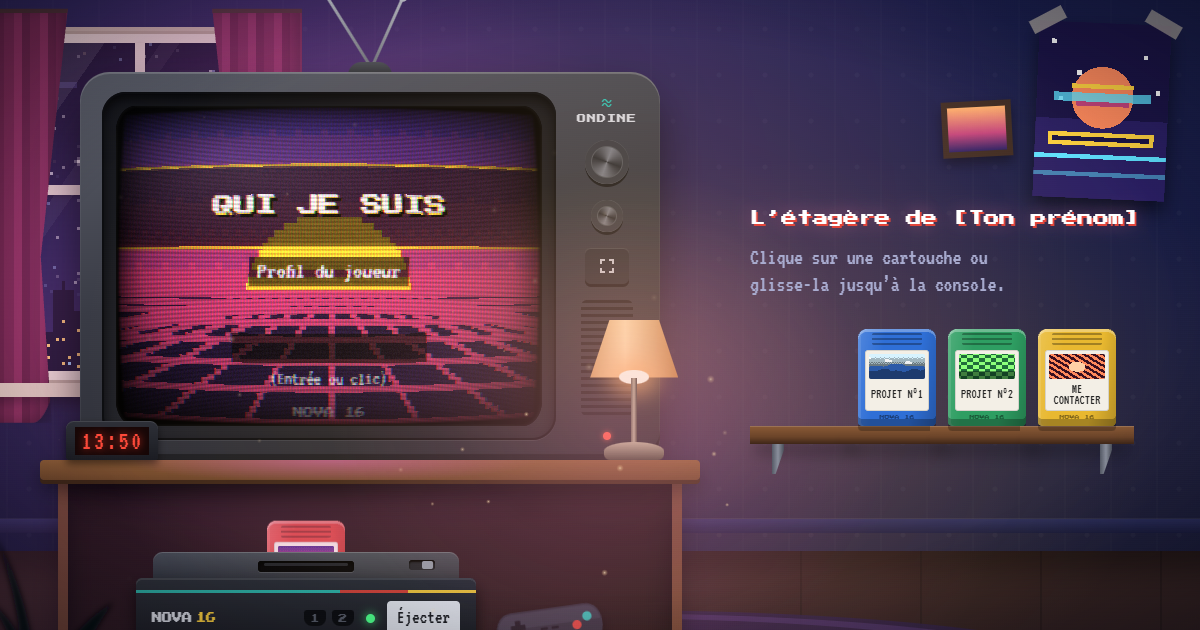
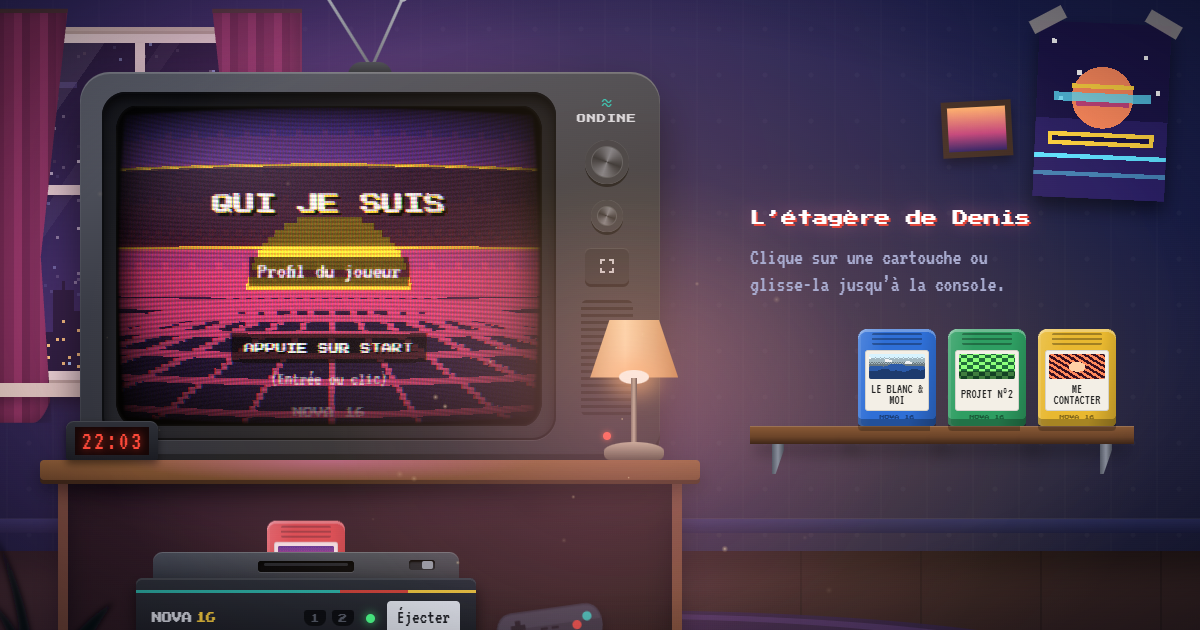
Prénom Denis sur l’enseigne, le titre et les balises de partage

diff --git a/index.html b/index.html
@@ -3,8 +3,8 @@
   <head>
     <meta charset="utf-8" />
     <meta name="viewport" content="width=device-width, initial-scale=1, viewport-fit=cover" />
-    <title>L’étagère de [Ton prénom] · portfolio</title>
-    <meta name="description" content="Le portfolio de [Ton prénom] : une chambre la nuit, une vieille télé et une console 16 bits. Choisis une cartouche sur l’étagère pour découvrir qui je suis, mes projets et comment me contacter." />
+    <title>L’étagère de Denis · portfolio</title>
+    <meta name="description" content="Le portfolio de Denis : une chambre la nuit, une vieille télé et une console 16 bits. Choisis une cartouche sur l’étagère pour découvrir qui je suis, mes projets et comment me contacter." />
     <meta name="theme-color" content="#0d1030" />
     <meta name="color-scheme" content="dark" />
     <link rel="icon" href="/favicon.svg" type="image/svg+xml" />
@@ -14,7 +14,7 @@
 
     <meta property="og:type" content="website" />
     <meta property="og:locale" content="fr_FR" />
-    <meta property="og:title" content="L’étagère de [Ton prénom]" />
+    <meta property="og:title" content="L’étagère de Denis" />
     <meta property="og:description" content="Un portfolio à jouer : insère une cartouche dans la NOVA 16 et regarde-la s’allumer sur la télé." />
     <meta property="og:url" content="%VITE_SITE_URL%/" />
     <meta property="og:image" content="%VITE_SITE_URL%/og-image.png" />
@@ -22,7 +22,7 @@
     <meta property="og:image:height" content="630" />
     <meta property="og:image:alt" content="Une télé cathodique allumée dans une chambre la nuit, une console et des cartouches." />
     <meta name="twitter:card" content="summary_large_image" />
-    <meta name="twitter:title" content="L’étagère de [Ton prénom]" />
+    <meta name="twitter:title" content="L’étagère de Denis" />
     <meta name="twitter:description" content="Un portfolio à jouer : insère une cartouche dans la NOVA 16." />
     <meta name="twitter:image" content="%VITE_SITE_URL%/og-image.png" />
   </head>

diff --git a/src/data/carts.js b/src/data/carts.js
@@ -157,4 +157,4 @@ export const CARTS = [
 ];
 
 /* Ton prénom, utilisé sur l’enseigne de l’étagère et dans l’intro. */
-export const OWNER = "[Ton prénom]";
+export const OWNER = "Denis";

diff --git a/README.md b/README.md
@@ -1,4 +1,4 @@
-# L’étagère de [Ton prénom]
+# L’étagère de Denis
 
 Un portfolio à jouer. Une chambre d’ado des années 90, la nuit : une télé cathodique **ONDINE**
 posée sur un meuble, une console 16 bits **NOVA 16** rangée dessous, et une étagère de cartouches.
@@ -55,10 +55,10 @@ exemple pour chacun, est en tête de `src/data/carts.js`.
 - Retirer une cartouche : supprime son objet.
 - Changer l’ordre : déplace les objets dans le tableau (les touches 1 à 9 suivent cet ordre).
 - Images : dépose-les dans `public/images/` et utilise `src: "/images/mon-image.png"`.
-- Ton prénom : remplace `[Ton prénom]` dans `OWNER` (bas de `carts.js`), dans `index.html`
-  (titre et balises de partage) et dans ce README.
+- Prénom affiché : `OWNER` (bas de `carts.js`) pour l’enseigne et l’intro, et `index.html`
+  pour le titre de l’onglet et les balises de partage.
 
-Les textes entre crochets (`[Ton prénom]`, `[ta ville]`…) sont à remplacer par les tiens.
+Les textes entre crochets (`[ton outil préféré]`…) sont à remplacer par les tiens.
 
 ## Redéployer
 
